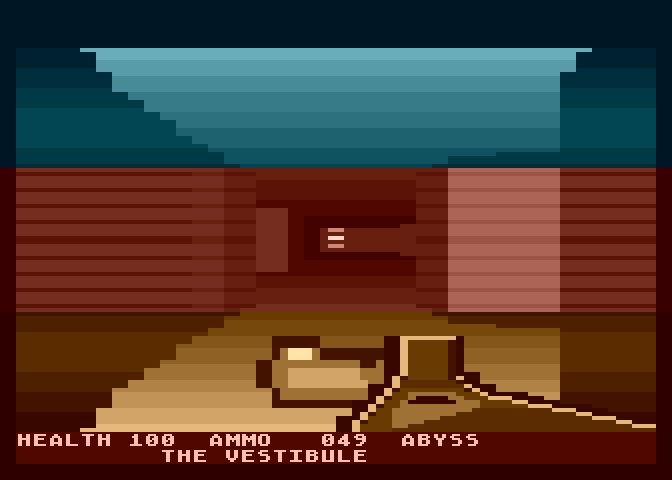
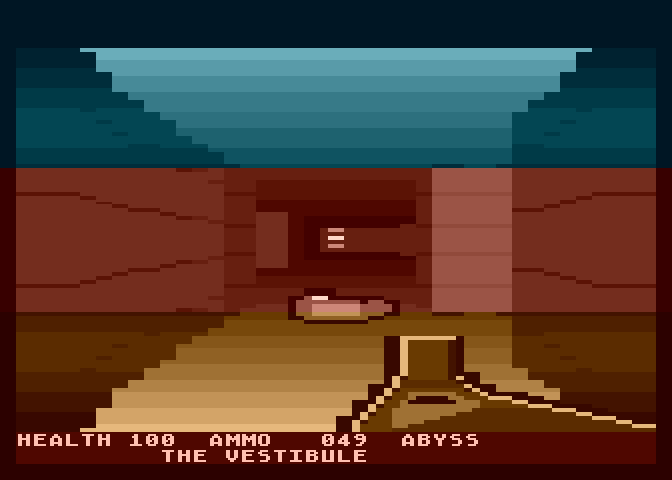
Site: v1.5 binary and screenshots, corrected stats, CRT status flagged
The playable build, the gallery images and the three stale figures (28,723
bytes, ~11 fps, 58/58 checks -> 29,143, ~10.5, 66/66). The perspective courses
post-date the last hardware run, so the page says so rather than leaving
'nothing here is emulator-only' standing when it is no longer true.

diff --git a/site/index.html b/site/index.html
@@ -133,7 +133,7 @@ footer .wrap{display:flex;justify-content:space-between;gap:20px;flex-wrap:wrap}
 <section id="play">
   <div class="wrap">
     <h2>PLAY</h2>
-    <p class="lead">This is the real game — byte-for-byte the same 28,723-byte executable that runs
+    <p class="lead">This is the real game — byte-for-byte the same 29,143-byte executable that runs
     on the hardware, here running in an Atari 800XL emulator compiled to WebAssembly. PAL, with
     sound: an audio engine that for most of this game's life was verified only as POKEY register
     traces, never actually heard.</p>
@@ -190,9 +190,9 @@ footer .wrap{display:flex;justify-content:space-between;gap:20px;flex-wrap:wrap}
     <div class="numbers">
       <div><b>28&thinsp;KB</b><span>THE WHOLE GAME</span></div>
       <div><b>5</b><span>CYCLES PER PIXEL</span></div>
-      <div><b>~11 fps</b><span>WORLD RENDER</span></div>
+      <div><b>~10.5 fps</b><span>WORLD RENDER</span></div>
       <div><b>50 Hz</b><span>EVERYTHING YOU FEEL</span></div>
-      <div><b>58/58</b><span>ACCEPTANCE CHECKS</span></div>
+      <div><b>66/66</b><span>ACCEPTANCE CHECKS</span></div>
       <div><b>1</b><span>NIGHT TO BUILD</span></div>
     </div>
     <div class="cols" style="margin-top:26px">
@@ -201,7 +201,7 @@ footer .wrap{display:flex;justify-content:space-between;gap:20px;flex-wrap:wrap}
         offset. The entry point <em>is</em> the run length: no loop counter, no compare per pixel,
         no overdraw. Five cycles a pixel is the floor for a 6502, and this sits on it.</p></div>
       <div class="card"><h3>THE 50&thinsp;Hz TRICK</h3>
-        <p>The world redraws at ~11 fps, but input, the weapon, the kick, the bob, audio and the
+        <p>The world redraws at ~10.5 fps, but input, the weapon, the kick, the bob, audio and the
         HUD all run in the vertical-blank interrupt at 50&thinsp;Hz and never wait. Pull the trigger and
         the gun fires on the <em>next video frame</em>. The parts you feel are never on the slow path.</p></div>
       <div class="card"><h3>A FLASH THAT CANNOT EXIST</h3>
@@ -239,14 +239,21 @@ footer .wrap{display:flex;justify-content:space-between;gap:20px;flex-wrap:wrap}
       <h3>RUN 4 — AND SO DOES EVERYTHING SINCE.</h3>
       <p>The bestiary, the knockback, the lava, the redrawn fireballs and masonry that finally
       recedes with distance — all confirmed on the same CRT, including a renderer change and a
-      memory reshuffle, the riskiest edits of the lot. Nothing on this page is emulator-only.</p>
+      memory reshuffle, the riskiest edits of the lot.</p>
+      <h3>SINCE THEN — NOT YET ON THE CRT.</h3>
+      <p>One change is newer than the last hardware run: the mortar courses now follow the
+      <em>perspective of the wall</em> rather than running parallel to the horizontal, so they
+      converge toward the vanishing point down a corridor. It is measured — 66/66, and a check
+      that reads 11.5 rows from the horizon at the near end of a receding wall against 0.5 at the
+      far end, where the previous build read 0.5 at both. But measured is not the same as seen on
+      a CRT, which is the whole lesson above, so it is flagged here until it has been.</p>
     </div>
   </div>
 </section>
 
 <footer>
   <div class="wrap">
-    <span>ABYSS &middot; <a href="https://github.com/tonygillett136/a8doomish">github.com/tonygillett136/a8doomish</a> &middot; <a href="emu/abyss.xex" download>abyss.xex</a> (28,723 bytes)</span>
+    <span>ABYSS &middot; <a href="https://github.com/tonygillett136/a8doomish">github.com/tonygillett136/a8doomish</a> &middot; <a href="emu/abyss.xex" download>abyss.xex</a> (29,143 bytes)</span>
     <span>Built by <a href="https://claude.com/claude-code">Claude Code</a> with Tony Gillett.
     Not affiliated with id Software; DOOM is a trademark of id Software LLC.</span>
   </div>
